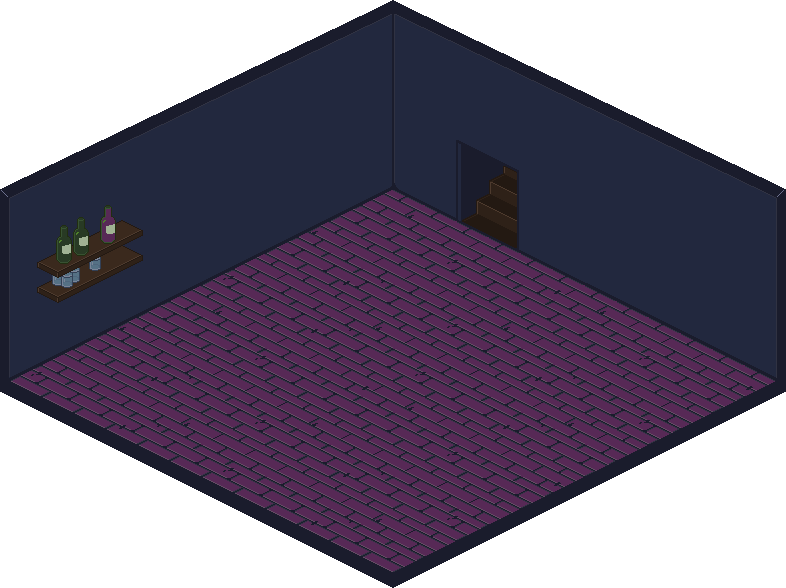
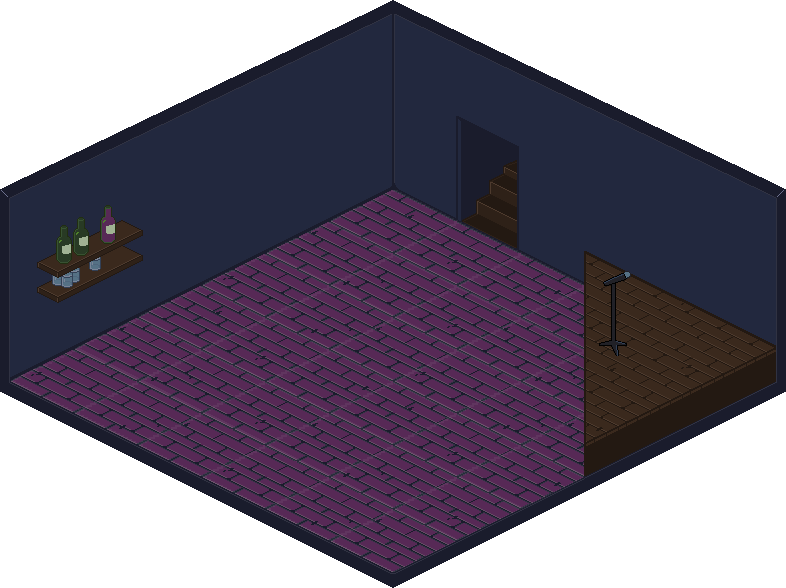
Added environment, fixed ZIndex issue, created TestAnimation

Changed region(s): [[0.7328, 0.4286, 1.0, 0.8265], [0.6412, 0.2755, 0.6718, 0.3061]]

diff --git a/js/gameScene.js b/js/gameScene.js
@@ -46,6 +46,9 @@ class GameScene extends Scene {
 
     this.stage.x = app.canvas.width/2 - this.stage.width/2
     this.stage.y = app.canvas.height/2 - this.stage.height/2
+
+    this.addEnvironment()
+
     this.dialogueScene.init(app)
     
     console.log("GameScene")
@@ -53,6 +56,37 @@ class GameScene extends Scene {
 
   render() {
     // console.log("I was rendered")
+  }
+
+  addEnvironment(){
+    let rupertTable = new Character(
+      this.app.sprites["RupertTable"],
+      this,
+      {row: 4, col:5}
+    )
+    this.stage.addChild(rupertTable.sprite)
+
+    let jessicaTable = new Character(
+      this.app.sprites["JessicaTable"],
+      this,
+      {row: 3, col:3}
+    )
+    this.stage.addChild(jessicaTable.sprite)
+    
+    let bar = new Character(
+      this.app.sprites["Bar"],
+      this,
+      {row: 5, col:2}
+    )
+    bar.sprite.zIndex = 4
+    bar.sprite.x += 3
+    bar.sprite.y -= 5
+
+    this.stage.addChild(bar.sprite)
+
+    this.lamps = this.app.sprites["Lamps"]
+    this.lamps.zIndex = 4+5
+    this.stage.addChild(this.lamps)
   }
 
   processEvt(evt) {

diff --git a/js/gameObjects.js b/js/gameObjects.js
@@ -42,12 +42,12 @@ class TiledFloor extends PIXIGameObject {
 	constructor(sprite, scene){
 		super(sprite)
 		this.map = [
-			[0,0,0,1,1,1],
-			[0,0,0,0,1,1],
-			[0,0,0,0,0,1],
-			[0,0,0,0,0,0],
-			[0,0,0,1,0,0],
-			[0,0,0,0,0,0]
+			[1,0,1,1,1,1],
+			[1,0,0,0,1,1],
+			[1,0,0,0,0,1],
+			[1,1,0,1,0,0],
+			[1,1,0,1,0,1],
+			[1,1,0,0,0,0]
 		]
 		this.scene = scene
 		this.heightOffset = 189
@@ -136,7 +136,12 @@ class Character extends PIXIGameObject {
 		this.sprite.x = this.coordinates.x
 		this.sprite.y = this.coordinates.y
 		this.sprite.zIndex = this.pos.col + this.pos.row
+		this.sortZIndex()
+	}
+
+	sortZIndex(){
 		game.currentScene.stage.children.sort((itemA, itemB) => itemA.zIndex - itemB.zIndex)
+
 	}
 
 	adjustCoordinates(pos){

diff --git a/js/main.js b/js/main.js
@@ -3,12 +3,20 @@ let game = new VaderGame({
 	sprites: [
 		"./img/Floor.png",
 		"./img/char_placeholder.png",
-		"./img/Jessica.png"
+		"./img/Jessica.png",
+		"./img/JessicaTable.png",
+		"./img/RupertTable.png",
+		"./img/Bar.png",
+		"./img/Lighting.png"
 	],
 	sprite_mapping: {
 		'./img/Floor.png': 'floor',
 		'./img/char_placeholder.png': 'Vader',
-		'./img/Jessica.png': 'Jessica'
+		'./img/Jessica.png': 'Jessica',
+		'./img/JessicaTable.png': 'JessicaTable',
+		'./img/RupertTable.png': 'RupertTable',
+		'./img/Bar.png': 'Bar',
+		'./img/Lighting.png': 'Lamps'
 	}
 })
 game.run()

diff --git a/js/engine.js b/js/engine.js
@@ -48,6 +48,7 @@ class Game {
   loadSprites(options){
     PIXI.loader
       .add(options["sprites"])
+      .add("./img/animations/test.json")
       .load(this.spritesLoaded.bind(this))
   }
 
@@ -83,6 +84,9 @@ class Game {
       this.sprites[this.options["sprite_mapping"][sprite_path]] =
         new PIXI.Sprite(PIXI.loader.resources[sprite_path].texture) 
     }
+    this.sprites["TestAnimation"] = new PIXI.extras.AnimatedSprite(
+      PIXI.loader.resources["./img/animations/test.json"].spritesheet.animations["char"]
+    )
     this.resourcesLoaded()
   }
 

diff --git a/js/PlayerController.js b/js/PlayerController.js
@@ -79,6 +79,8 @@ class Player extends Character {
 			}
 			this.currentActionData.incrementX = (this.currentActionData.end.x-this.currentActionData.start.x)/this.velocity
 			this.currentActionData.incrementY = (this.currentActionData.end.y-this.currentActionData.start.y)/this.velocity
+			this.sprite.zIndex = nextPos.row+nextPos.col
+			this.sortZIndex()
 		} else {
 			this.currentActionData.timeLeft -= dt
 			this.sprite.x += dt * this.currentActionData.incrementX
